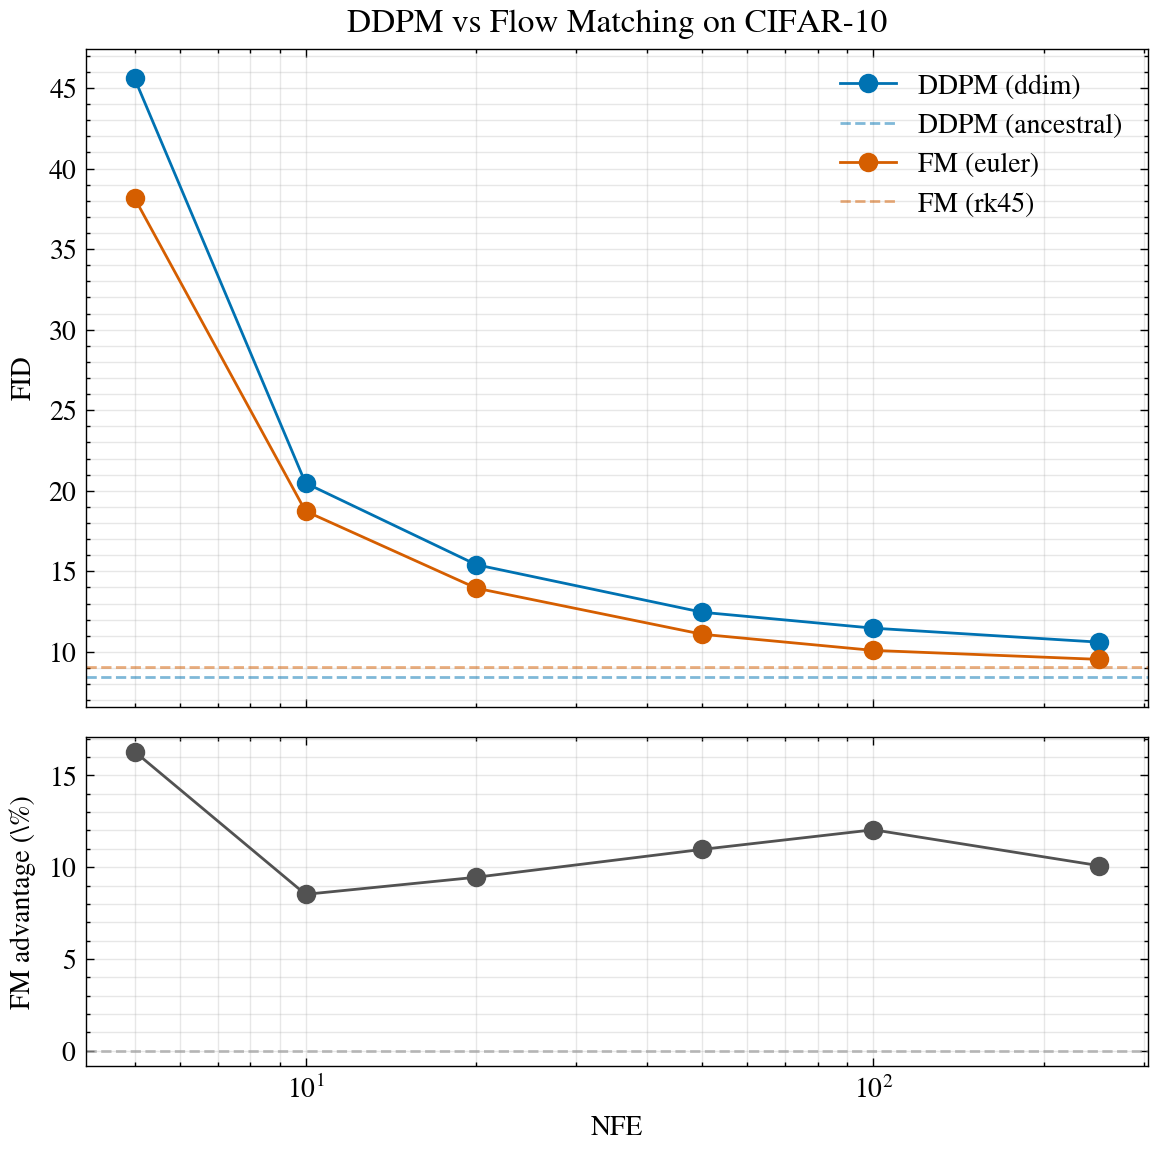
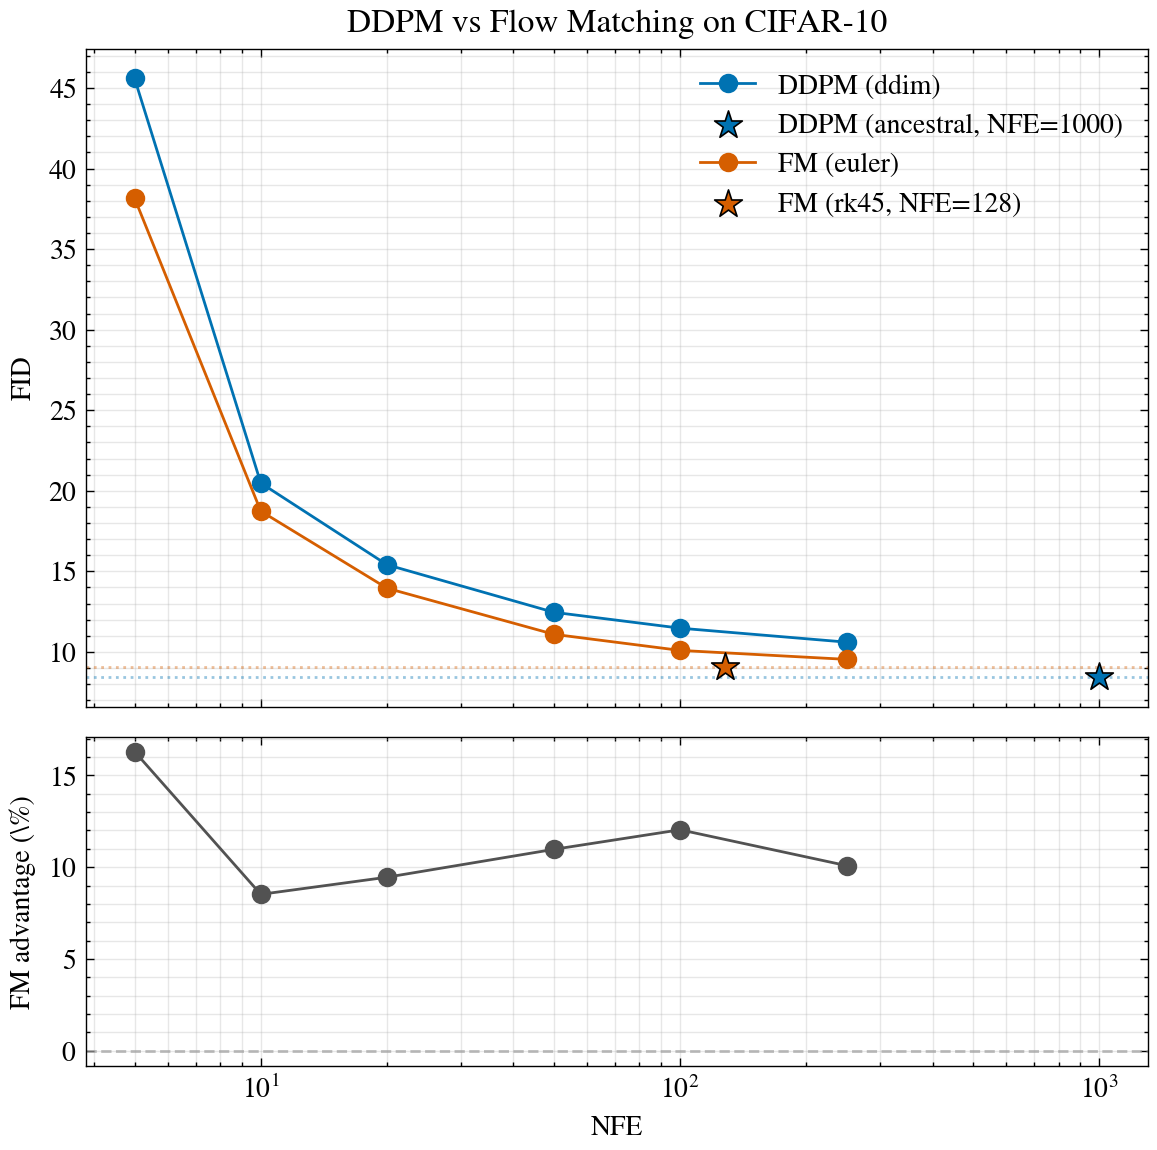
better plot with specific NFE for default methods

diff --git a/src/plot.py b/src/plot.py
@@ -17,7 +17,20 @@ _DELTA_COLOR = "#525252"           # charcoal
 
 
 def _load(path: Path) -> list[dict]:
-    return [json.loads(l) for l in path.read_text().splitlines() if l.strip()]
+    """Read sweep.jsonl, dropping legacy entries that pre-date the `nfe` / `fid` schema."""
+    entries: list[dict] = []
+    dropped = 0
+    for line in path.read_text().splitlines():
+        if not line.strip():
+            continue
+        e = json.loads(line)
+        if "nfe" not in e or "fid" not in e or "sampler" not in e:
+            dropped += 1
+            continue
+        entries.append(e)
+    if dropped:
+        print(f"  {path}: dropped {dropped} legacy entries (missing nfe/fid/sampler)")
+    return entries
 
 
 def _plot_fid_vs_nfe(data, fixed, out: Path) -> None:
@@ -33,10 +46,15 @@ def _plot_fid_vs_nfe(data, fixed, out: Path) -> None:
         ys = [fixed[method][x] for x in xs]
         if xs:
             ax_top.plot(xs, ys, marker="o", color=color, label=f"{label} ({sampler})")
+        # Paper sampler: thin dashed FID-level guide + star marker at its actual NFE
+        # (ancestral runs at T=1000; RK45 is adaptive and typically lands ~145).
         for e in data[method]:
             if e["sampler"] != sampler:
-                ax_top.axhline(e["fid"], color=color, linestyle="--", alpha=0.5,
-                               label=f"{label} ({e['sampler']})")
+                ax_top.axhline(e["fid"], color=color, linestyle=":", alpha=0.4,
+                               linewidth=1.0)
+                ax_top.scatter([e["nfe"]], [e["fid"]], color=color, marker="*",
+                               s=110, edgecolors="black", linewidths=0.6, zorder=4,
+                               label=f"{label} ({e['sampler']}, NFE={e['nfe']})")
     ax_top.set_xscale("log")
     ax_top.set_ylabel("FID")
     ax_top.set_title("DDPM vs Flow Matching on CIFAR-10")
@@ -75,9 +93,9 @@ def _plot_fid_vs_wallclock(data, out: Path) -> bool:
             plotted = True
         for e in data[method]:
             if e["sampler"] != sampler and "wall_s" in e:
-                ax.scatter([e["wall_s"]], [e["fid"]], color=color, marker="s", s=60,
-                           edgecolors="black", linewidths=0.5, zorder=3,
-                           label=f"{label} ({e['sampler']})")
+                ax.scatter([e["wall_s"]], [e["fid"]], color=color, marker="*", s=200,
+                           edgecolors="black", linewidths=0.8, zorder=4,
+                           label=f"{label} ({e['sampler']}, NFE={e['nfe']})")
                 plotted = True
     if not plotted:
         plt.close(fig)
